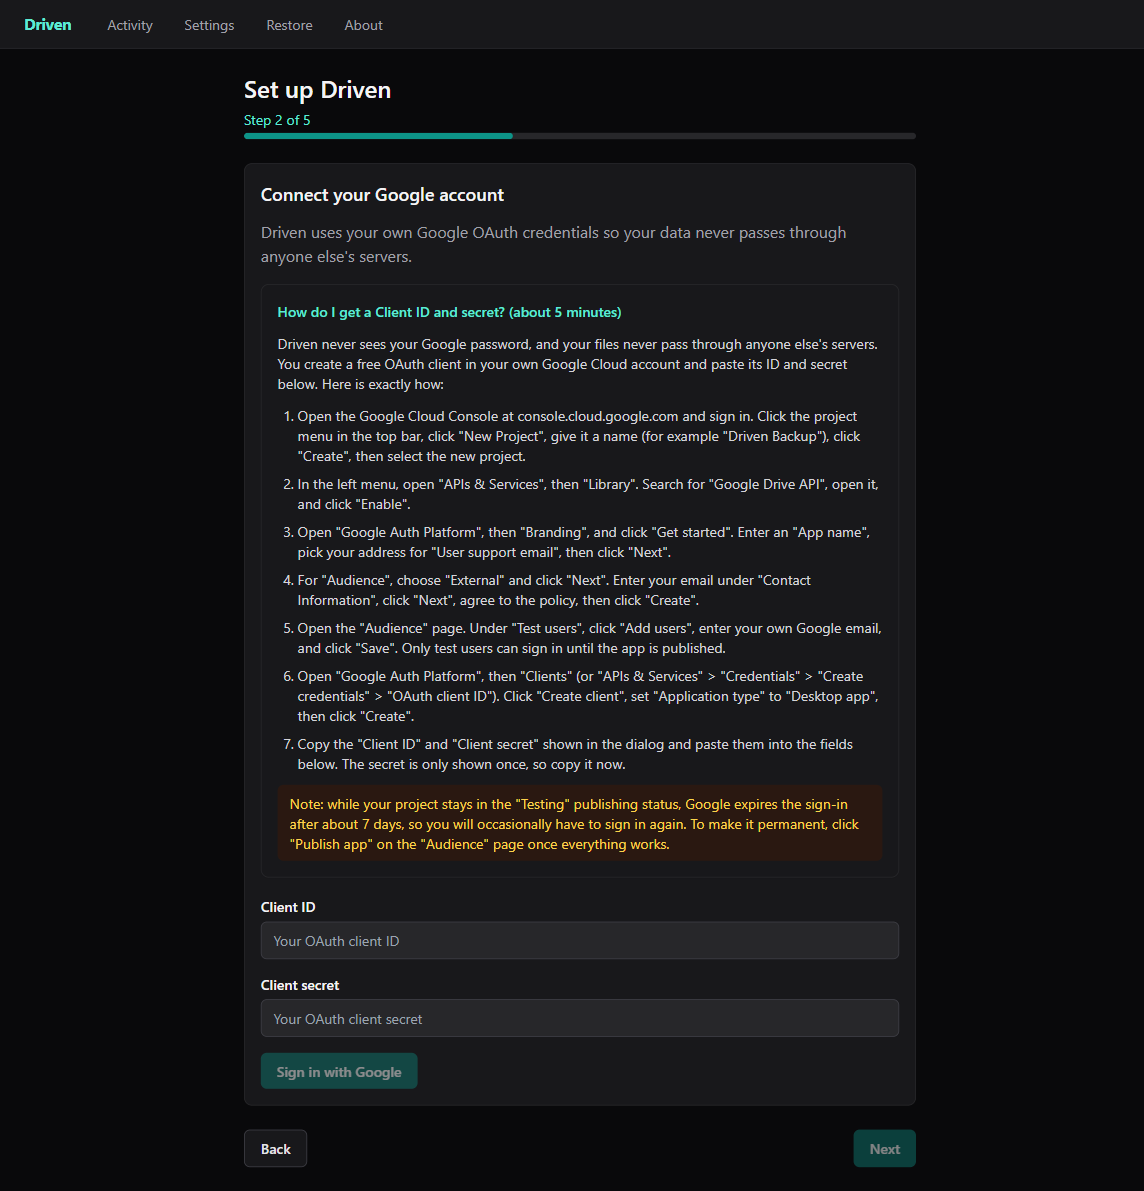
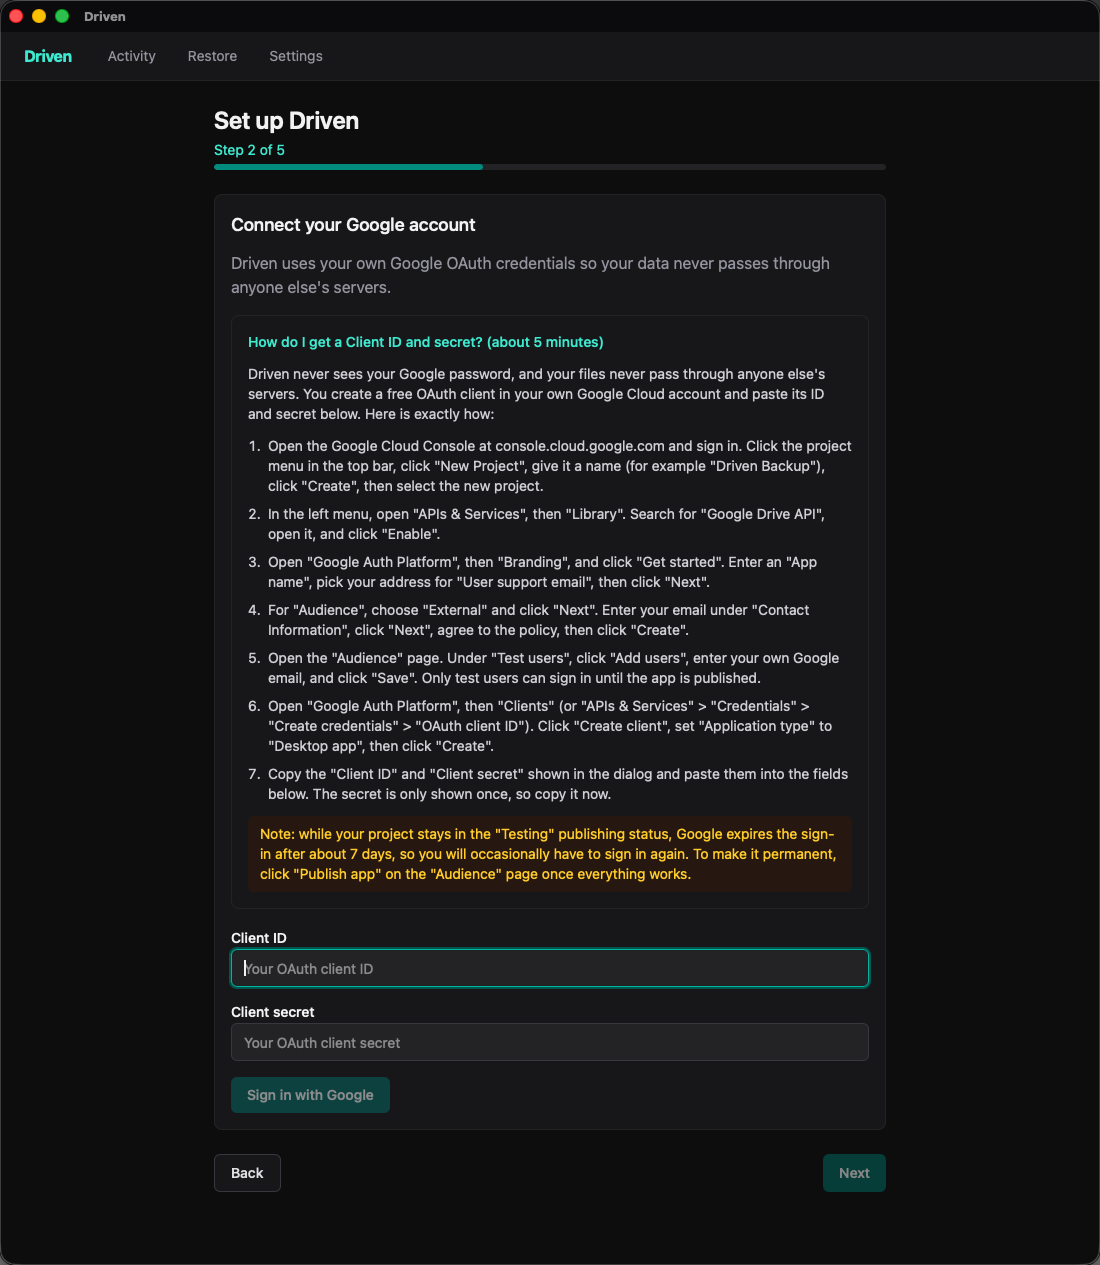
docs: refresh the README screenshots for the current UI (#267)
Both dark-mode README screenshots predated the settings sidebar IA
(v2.8.0) and the SFTP backend (v2.9.0): the nav still showed an About
tab and the wizard offered only three destinations. Recaptured from the
real app running current main:

- **setup-wizard-dark.png** - wizard step 1 with all four destinations
(Google Drive, S3-compatible storage, local or removable folder, SSH
(SFTP)) and the current Activity / Restore / Settings nav.
- **oauth-walkthrough-dark.png** - the credentials step with the
numbered Google OAuth walkthrough expanded, full page.

Alt text on the wizard image updated to describe the current nav and the
destination choices.

README checked - this PR is the README update (follow-up to #265, which
refreshed the text but not the images).

🤖 Generated with [Claude Code](https://claude.com/claude-code)

https://claude.ai/code/session_015jEKvjBzVjaWLq6o5zg2PV

diff --git a/README.md b/README.md
@@ -12,7 +12,7 @@ folders stay the single source of truth. With per-source client-side encryption
 turned on, file names and contents are encrypted on your machine before they
 ever leave it, so Google stores only ciphertext.
 
-![Driven's first-run setup wizard in dark mode: a teal-accented welcome step with the top navigation (Activity, Settings, Restore, About).](docs/screenshots/setup-wizard-dark.png)
+![Driven's first-run setup wizard in dark mode: a teal-accented welcome step offering Google Drive, S3-compatible storage, a local or removable folder, or SSH (SFTP) as the backup destination, under the top navigation (Activity, Restore, Settings).](docs/screenshots/setup-wizard-dark.png)
 
 When backing up to Google Drive, Driven uses your own OAuth credentials, so
 your files never pass through anyone else's servers. The first-run wizard
